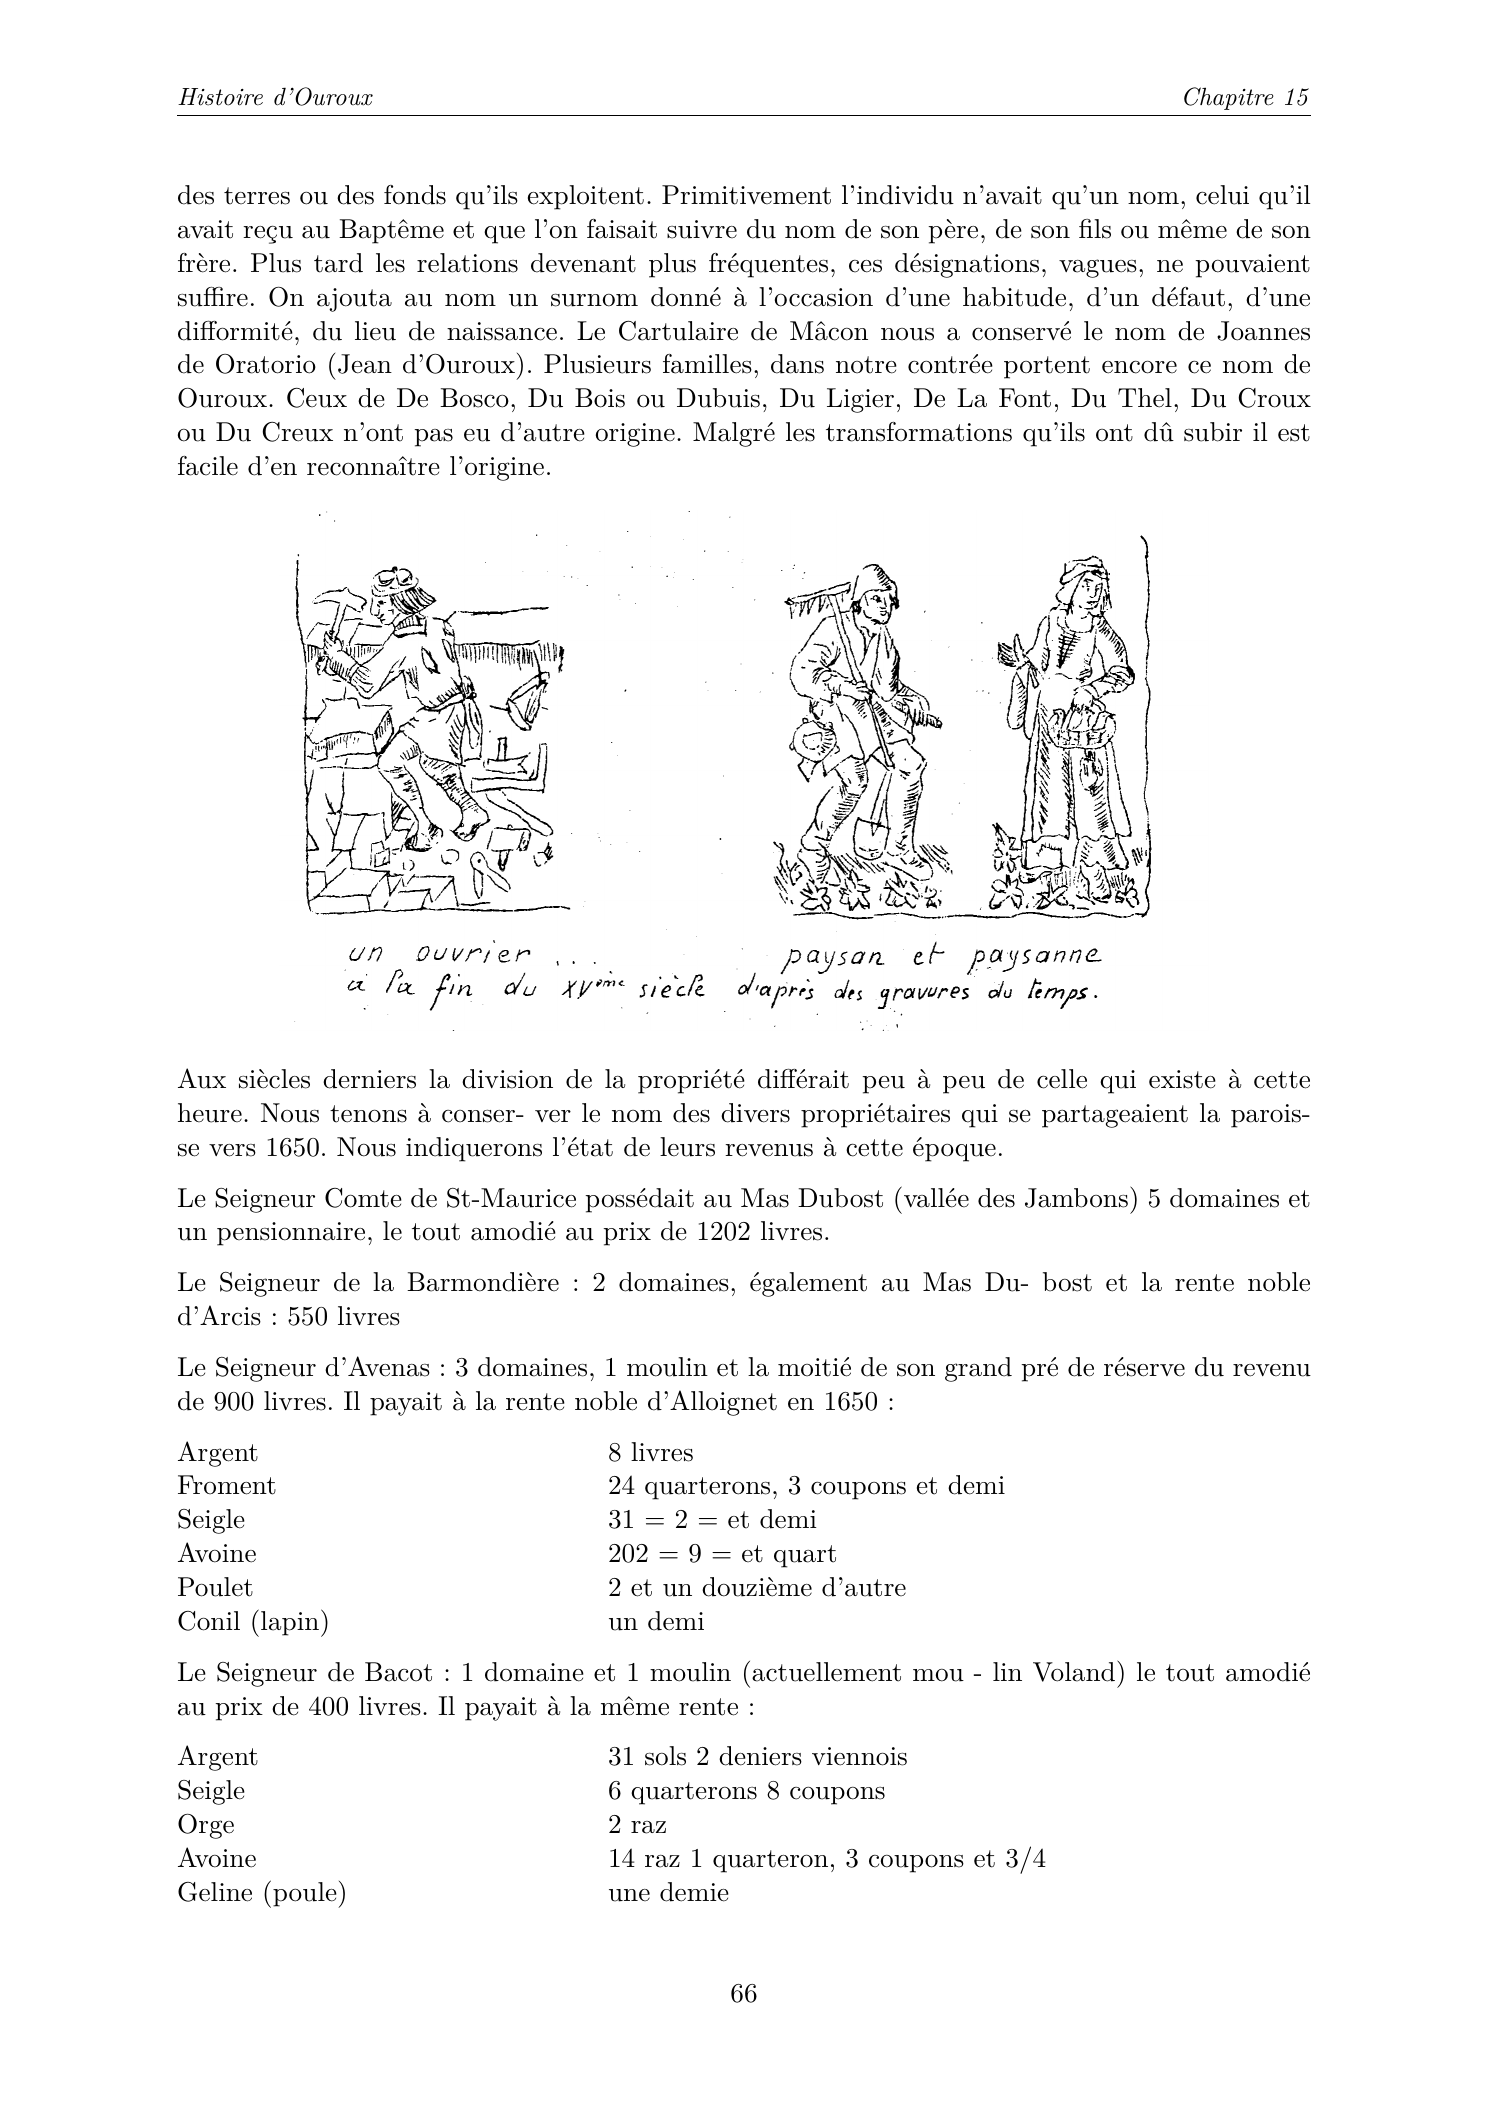
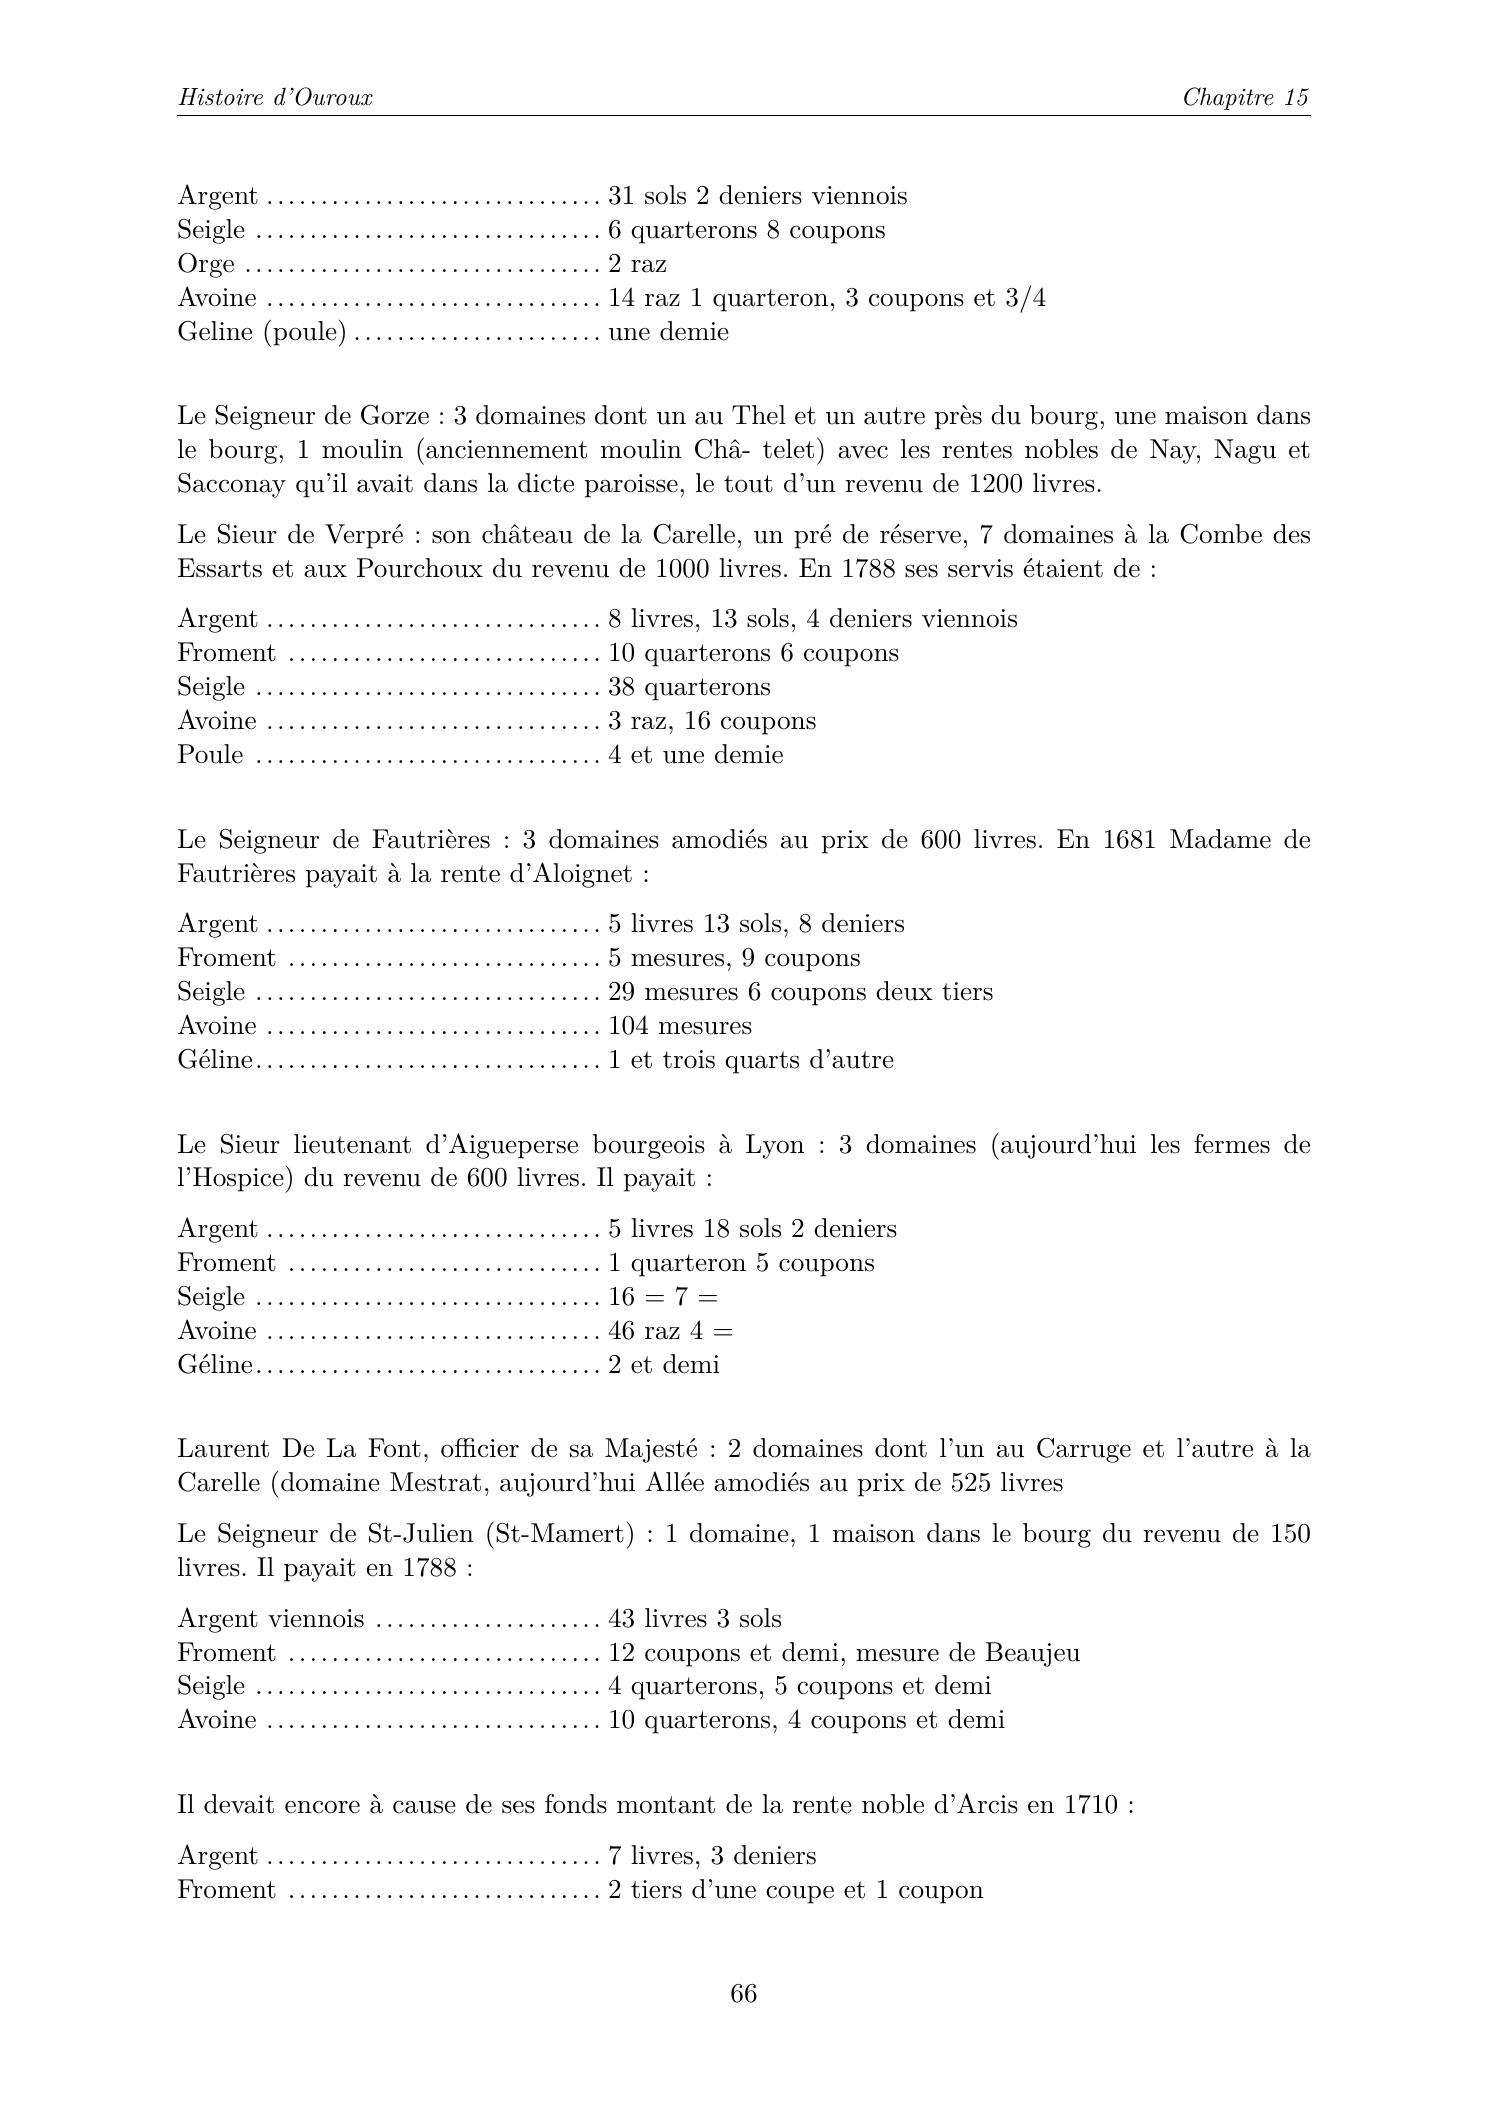
fix: ajouter les points de conduite aux inventaires

Changed region(s): [[0.1236, 0.0926, 0.8959, 0.9264], [0.3398, 0.772, 0.3707, 0.8029], [0.3089, 0.8029, 0.3398, 0.8337]]

diff --git a/Chapitres/15-bourg.tex b/Chapitres/15-bourg.tex
@@ -4,6 +4,9 @@
 % ===================================================
 \chapter{Bourg, population, industries, etc.}
 
+\newcommand{\rente}[2]{%
+    \makebox[0.38\textwidth][l]{#1\leaders\hbox to 0.4em{\hss.\hss}\hfill}#2\\}
+
 % --- Page imprimée 75 — vue 78
 D'après le dernier recensement (10 mars 1946) la Commune d'Ouroux compte 509 habitants répartis entre 162 foyers. Le tableau ci-dessous montre qu'à la campagne quelques maisons sont inhabitées puisqu'il y a moins de ménages que de maisons. Il est à remarquer aussi que le nombre de ménages dans les divers quartiers de la Commune, tout en étant en nombre inférieur à ceux du bourg, fournit cependant une population plus forte que dans le bourg.
 
@@ -211,12 +214,12 @@ grand pré de réserve du revenu de 900 livres. Il payait à la rente
 noble d'Alloignet en 1650 :
 \begin{tabbing}
 \hspace{0.38\textwidth}\=\kill
-Argent\>8 livres\\
-Froment\>24 quarterons, 3 coupons et demi\\
-Seigle\>31       =       2       =      et demi\\
-Avoine\>202      =       9       =      et quart\\
-Poulet\>2 et un douzième d'autre\\
-Conil (lapin)\>un demi
+\rente{Argent}{8 livres}
+\rente{Froment}{24 quarterons, 3 coupons et demi}
+\rente{Seigle}{31       =       2       =      et demi}
+\rente{Avoine}{202      =       9       =      et quart}
+\rente{Poulet}{2 et un douzième d'autre}
+\rente{Conil (lapin)}{un demi}
 \end{tabbing}
 
 Le Seigneur de Bacot : 1 domaine et 1 moulin (actuellement mou -
@@ -224,11 +227,11 @@ lin Voland) le tout amodié au prix de 400 livres. Il payait à la
 même rente :
 \begin{tabbing}
 \hspace{0.38\textwidth}\=\kill
-Argent\>31 sols 2 deniers viennois\\
-Seigle\>6 quarterons 8 coupons\\
-Orge\>2 raz\\
-Avoine\>14 raz 1 quarteron, 3 coupons et 3/4\\
-Geline (poule)\>une demie
+\rente{Argent}{31 sols 2 deniers viennois}
+\rente{Seigle}{6 quarterons 8 coupons}
+\rente{Orge}{2 raz}
+\rente{Avoine}{14 raz 1 quarteron, 3 coupons et 3/4}
+\rente{Geline (poule)}{une demie}
 \end{tabbing}
 
 Le Seigneur de Gorze : 3 domaines dont un au Thel et un autre près
@@ -241,11 +244,11 @@ Le Sieur de Verpré : son château de la Carelle, un pré de réserve,
 livres. En 1788 ses servis étaient de :
 \begin{tabbing}
 \hspace{0.38\textwidth}\=\kill
-Argent\>8 livres, 13 sols, 4 deniers viennois\\
-Froment\>10 quarterons 6 coupons\\
-Seigle\>38 quarterons\\
-Avoine\>3 raz, 16 coupons\\
-Poule\>4 et une demie
+\rente{Argent}{8 livres, 13 sols, 4 deniers viennois}
+\rente{Froment}{10 quarterons 6 coupons}
+\rente{Seigle}{38 quarterons}
+\rente{Avoine}{3 raz, 16 coupons}
+\rente{Poule}{4 et une demie}
 \end{tabbing}
 
 % --- Page imprimée 89 — vue 92
@@ -253,11 +256,11 @@ Le Seigneur de Fautrières : 3 domaines amodiés au prix de 600
 livres. En 1681 Madame de Fautrières payait à la rente d'Aloignet :
 \begin{tabbing}
 \hspace{0.38\textwidth}\=\kill
-Argent\>5 livres 13 sols, 8 deniers\\
-Froment\>5 mesures, 9 coupons\\
-Seigle\>29 mesures 6 coupons deux tiers\\
-Avoine\>104 mesures\\
-Géline\>1 et trois quarts d'autre
+\rente{Argent}{5 livres 13 sols, 8 deniers}
+\rente{Froment}{5 mesures, 9 coupons}
+\rente{Seigle}{29 mesures 6 coupons deux tiers}
+\rente{Avoine}{104 mesures}
+\rente{Géline}{1 et trois quarts d'autre}
 \end{tabbing}
 
 Le Sieur lieutenant d'Aigueperse bourgeois à Lyon : 3 domaines
@@ -265,11 +268,11 @@ Le Sieur lieutenant d'Aigueperse bourgeois à Lyon : 3 domaines
 payait :
 \begin{tabbing}
 \hspace{0.38\textwidth}\=\kill
-Argent\>5 livres 18 sols 2 deniers\\
-Froment\>1 quarteron 5 coupons\\
-Seigle\>16    =     7    =\\
-Avoine\>46  raz     4    =\\
-Géline\>2 et demi
+\rente{Argent}{5 livres 18 sols 2 deniers}
+\rente{Froment}{1 quarteron 5 coupons}
+\rente{Seigle}{16    =     7    =}
+\rente{Avoine}{46  raz     4    =}
+\rente{Géline}{2 et demi}
 \end{tabbing}
 
 Laurent De La Font, officier de sa Majesté : 2 domaines dont l'un
@@ -280,20 +283,20 @@ Le Seigneur de St-Julien (St-Mamert) : 1 domaine, 1 maison dans le
 bourg du revenu de 150 livres. Il payait en 1788 :
 \begin{tabbing}
 \hspace{0.38\textwidth}\=\kill
-Argent viennois\>43 livres 3 sols\\
-Froment\>12 coupons et demi, mesure de Beaujeu\\
-Seigle\>4 quarterons, 5 coupons et demi\\
-Avoine\>10 quarterons, 4 coupons et demi
+\rente{Argent viennois}{43 livres 3 sols}
+\rente{Froment}{12 coupons et demi, mesure de Beaujeu}
+\rente{Seigle}{4 quarterons, 5 coupons et demi}
+\rente{Avoine}{10 quarterons, 4 coupons et demi}
 \end{tabbing}
 
 Il devait encore à cause de ses fonds montant de la rente noble
 d'Arcis en 1710 :
 \begin{tabbing}
 \hspace{0.38\textwidth}\=\kill
-Argent\>7 livres, 3 deniers\\
-Froment\>2 tiers d'une coupe et 1 coupon\\
-Seigle\>10 coupons\\
-Avoine\>2 mesures 7 coupons
+\rente{Argent}{7 livres, 3 deniers}
+\rente{Froment}{2 tiers d'une coupe et 1 coupon}
+\rente{Seigle}{10 coupons}
+\rente{Avoine}{2 mesures 7 coupons}
 \end{tabbing}
 
 Nous passons sous silence les noms de ceux qui ne possédaient
